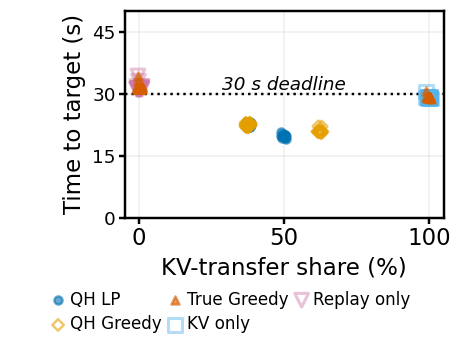
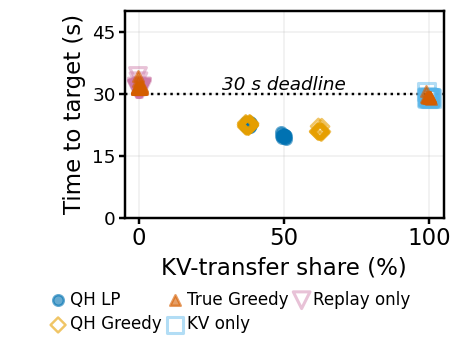
Increase scatter marker sizes for publication readability

diff --git a/agent-migrate/queue-haul/plot_wan_prefill_tradeoff.py b/agent-migrate/queue-haul/plot_wan_prefill_tradeoff.py
@@ -113,7 +113,7 @@ def plot(root, out):
                 continue
             ax.scatter(np.array([r["kv_share_percent"] for r in selected]) + offsets,
                        [r["attainment_time_s"] for r in selected],
-                       marker=plot_style.POLICY_MARKERS[identity], s=20 if shared else 7, alpha=.45 if shared else .6,
+                       marker=plot_style.POLICY_MARKERS[identity], s=30 if shared else 12, alpha=.45 if shared else .6,
                        facecolors="none" if shared or policy == "greedy" else plot_style.POLICY_COLORS[identity],
                        edgecolors=plot_style.POLICY_COLORS[identity], linewidths=1 if shared else .8,
                        label=plot_style.STRESS_POLICY_NAMES[identity] if policy == "per_session_greedy" else plot_style.PAPER_POLICY_NAMES[identity],
